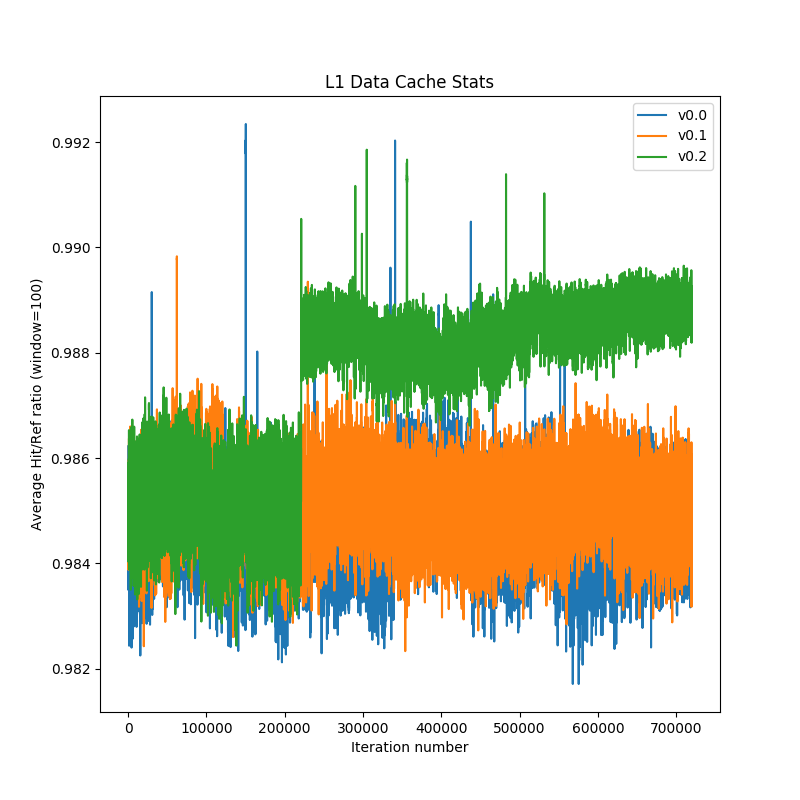
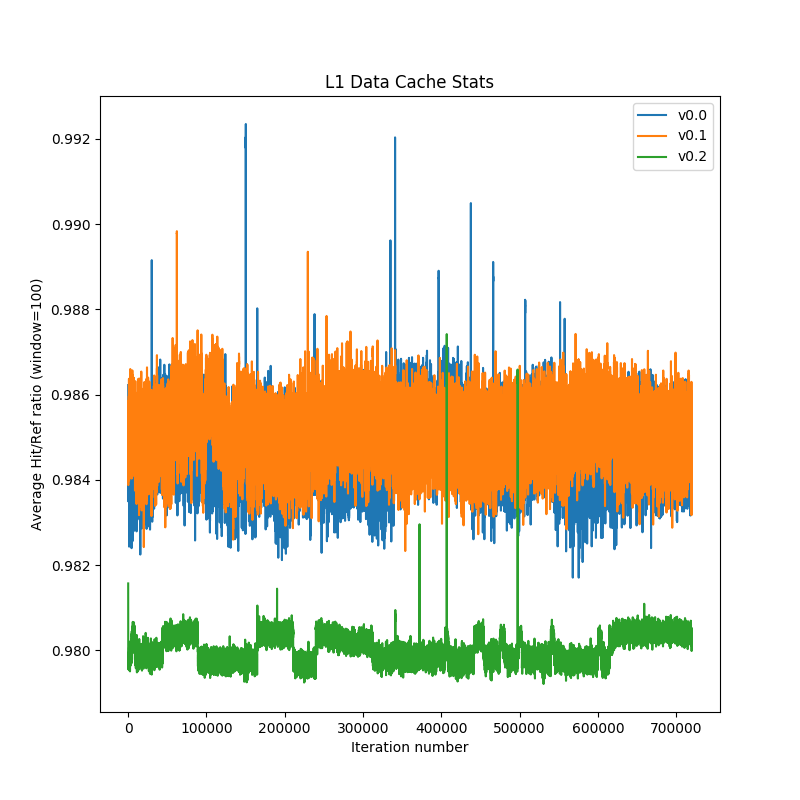
v0.2 false sharing

diff --git a/Task2/src/v0.2/pathGen.cpp b/Task2/src/v0.2/pathGen.cpp
@@ -102,73 +102,67 @@ int main(int argc,char **argv){
 	read(statFd,buf,sizeof(buf));
 	printStatToFile(rf,perfLog,id);
 	for(int run=0;run<totalRun;++run){
+		#pragma omp parallel shared(position,velocity,force) private(r,dist,f,f1,f2,f3)
+		{
+		#pragma omp master
+		{
 		if(run%1000==0)printToFile(position,trajFile);
 	  	ioctl(statFd, PERF_EVENT_IOC_RESET, PERF_IOC_FLAG_GROUP);
 		begin = omp_get_wtime();
 	  	ioctl(statFd, PERF_EVENT_IOC_ENABLE, PERF_IOC_FLAG_GROUP);
-		#pragma omp parallel for schedule(guided) shared(position,velocity,force)
-		for(int a=0;a<N/CACHE_LINE_SIZE+1;++a){
-			int line_block = a*CACHE_LINE_SIZE;
-			int line_block_end = min(N,line_block+CACHE_LINE_SIZE);
-			for(int b=line_block;b<line_block_end;++b){
-				velocity[b].first+=force[b].first*dt/(2*M);
-				velocity[b].second+=force[b].second*dt/(2*M);
-				velocity[b].third+=force[b].third*dt/(2*M);
-				position[b].first+=velocity[b].first*dt;
-				while(!(position[b].first>=0 && position[b].first<=XMAX)){
-					if(position[b].first>XMAX)position[b].first = 2*XMAX-position[b].first;
-					else if(position[b].first<0)position[b].first = -1*position[b].first;
-				}
-				position[b].second+=velocity[b].second*dt;
-				while(!(position[b].second>=0 && position[b].second<=YMAX)){
-					if(position[b].second>YMAX)position[b].second = 2*YMAX-position[b].second;
-					else if(position[b].second<0)position[b].second = -1*position[b].second;
-				}
-				position[b].third+=velocity[b].third*dt;
-				while(!(position[b].third>=0 && position[b].third<=ZMAX)){
-					if(position[b].third>ZMAX)position[b].third = 2*ZMAX-position[b].third;
-					else if(position[b].third<0)position[b].third = -1*position[b].third;
-				}
-				force[b].first=force[b].second=force[b].third=0.0;
+		}
+		#pragma omp barrier
+		#pragma omp for schedule(guided,CACHE_LINE_SIZE) 
+		for(int a=0;a<N;++a){	
+			velocity[a].first+=force[a].first*dt/(2*M);
+			velocity[a].second+=force[a].second*dt/(2*M);
+			velocity[a].third+=force[a].third*dt/(2*M);
+			position[a].first+=velocity[a].first*dt;
+			while(!(position[a].first>=0 && position[a].first<=XMAX)){
+				if(position[a].first>XMAX)position[a].first = 2*XMAX-position[a].first;
+				else if(position[a].first<0)position[a].first = -1*position[a].first;
 			}
+			position[a].second+=velocity[a].second*dt;
+			while(!(position[a].second>=0 && position[a].second<=YMAX)){
+				if(position[a].second>YMAX)position[a].second = 2*YMAX-position[a].second;
+				else if(position[a].second<0)position[a].second = -1*position[a].second;
+			}
+			position[a].third+=velocity[a].third*dt;
+			while(!(position[a].third>=0 && position[a].third<=ZMAX)){
+				if(position[a].third>ZMAX)position[a].third = 2*ZMAX-position[a].third;
+				else if(position[a].third<0)position[a].third = -1*position[a].third;
+			}
+			force[a].first=force[a].second=force[a].third=0.0;
 
 		}
-		#pragma omp parallel for schedule(guided,CACHE_LINE_SIZE) shared(position,force) private(r,dist,f,f1,f2,f3) collapse(2)
+		#pragma omp for schedule(guided,CACHE_LINE_SIZE) collapse(2)
 		for(int a=0;a<N;++a){
 			for(int b=0;b<N;++b){
-				if(b<=a)continue;
-				r.first = position[b].first - position[a].first;
-				r.second = position[b].second - position[a].second;
-				r.third = position[b].third - position[a].third;
+				if(b==a)continue;
+				r.first = position[a].first - position[b].first;
+				r.second = position[a].second - position[b].second;
+				r.third = position[a].third - position[b].third;
 				dist = sqrt(r.first*r.first+r.second*r.second+r.third*r.third);
 				f = G*M*M/dist;
 				f1 = f*r.first/dist;
 				f2 = f*r.second/dist;
 				f3 = f*r.third/dist;
 				#pragma omp atomic
-				force[a].first+=f1;
+				force[b].first+=f1;
 				#pragma omp atomic
-				force[a].second+=f2;
+				force[b].second+=f2;
 				#pragma omp atomic
-				force[a].third+=f3;
-				#pragma omp atomic
-				force[b].first+=-1*f1;
-				#pragma omp atomic
-				force[b].second+=-1*f2;
-				#pragma omp atomic
-				force[b].third+=-1*f3;
+				force[b].third+=f3;
 			}
 		}
-		#pragma omp parallel for schedule(guided) shared(velocity,force)
-		for(int a=0;a<N/CACHE_LINE_SIZE+1;++a){
-			int line_block = a*CACHE_LINE_SIZE;
-			int line_block_end = min(N,line_block+CACHE_LINE_SIZE);
-			for(int b=line_block;b<line_block_end;++b){
-				velocity[b].first+=force[b].first*dt/(2*M);
-				velocity[b].second+=force[b].second*dt/(2*M);
-				velocity[b].third+=force[b].third*dt/(2*M);
-			}
+		#pragma omp for schedule(guided,CACHE_LINE_SIZE) 
+		for(int a=0;a<N;++a){
+			velocity[a].first+=force[a].first*dt/(2*M);
+			velocity[a].second+=force[a].second*dt/(2*M);
+			velocity[a].third+=force[a].third*dt/(2*M);
 		}
+		#pragma omp master
+		{
 		ioctl(statFd,PERF_EVENT_IOC_DISABLE,PERF_IOC_FLAG_GROUP);	
 		end = omp_get_wtime();
 		read(statFd,buf,sizeof(buf));
@@ -176,6 +170,8 @@ int main(int argc,char **argv){
 		cout<<"Percentage finished: "<<(run+1)*100.0/totalRun<<"("<<run+1<<"/"<<totalRun<<")\r";
 		timeLog<<run+1<<","<<end-begin<<endl;
 		cout.flush();
+		}
+		}
 	}
 	trajFile.close();		
 	timeLog.close();
